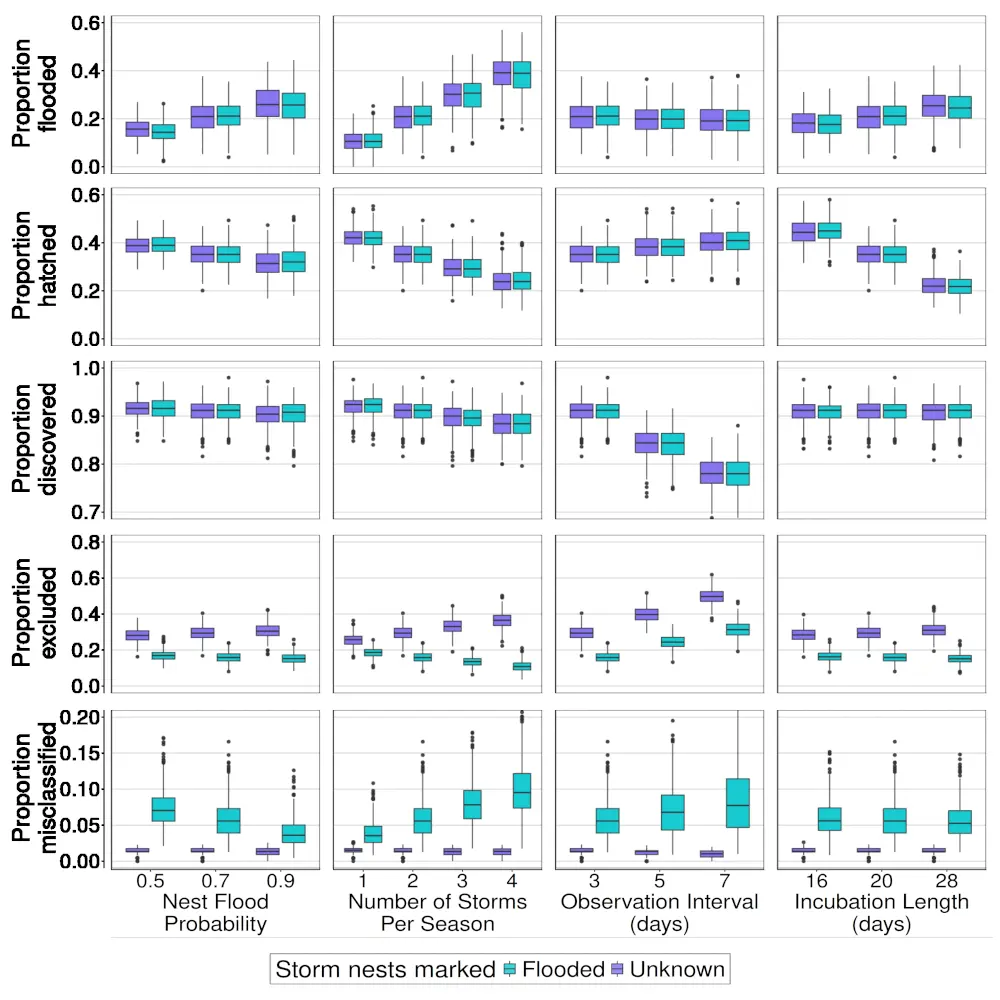
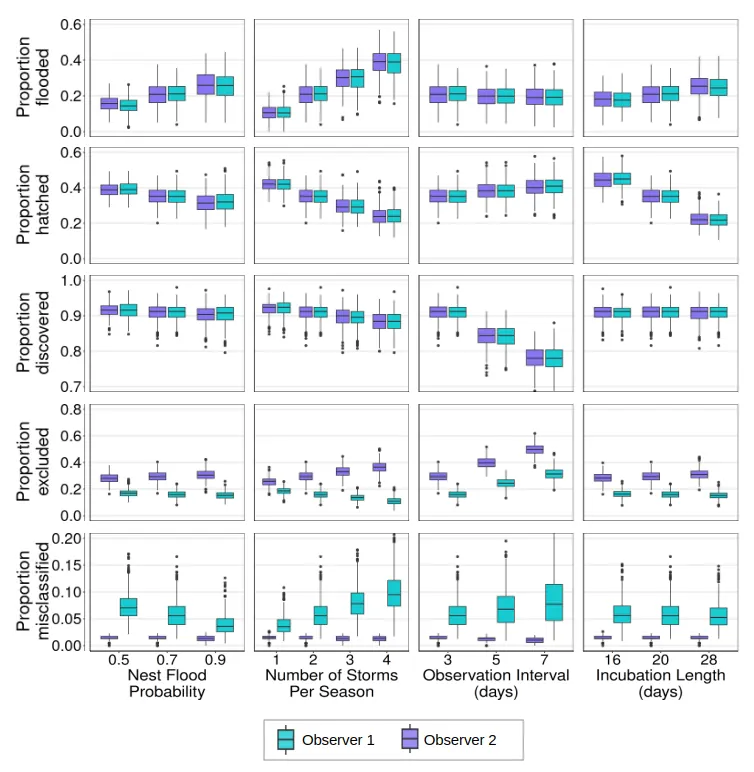
updated nest sim & images

Changed region(s): [[0.0, 0.0, 1.0, 0.9948]]

diff --git a/_portfolio/nest_sim.md b/_portfolio/nest_sim.md
@@ -36,9 +36,9 @@ I used synthetic data to assess the impact of increasing numbers of uncertain-fa
 
     For uncertain-fate nests during storms, observer has a choice: 
 
-    * <span style="color: #7A67EE; font-weight: bold;">Observer 1</span> marks these nest fates "unknown" 
+    * <span style="color: #40E0D0; font-weight: bold;">Observer 1</span> marks these nest fates "flooded"
 
-    * <span style="color: #40E0D0; font-weight: bold;">Observer 2</span> marks these nest fates "flooded"
+    * <span style="color: #7A67EE; font-weight: bold;">Observer 2</span> marks these nest fates "unknown" 
 
     This means some fraction of nests are either excluded because fate is unknown, or are misclassified because they did not truly flood.
 
